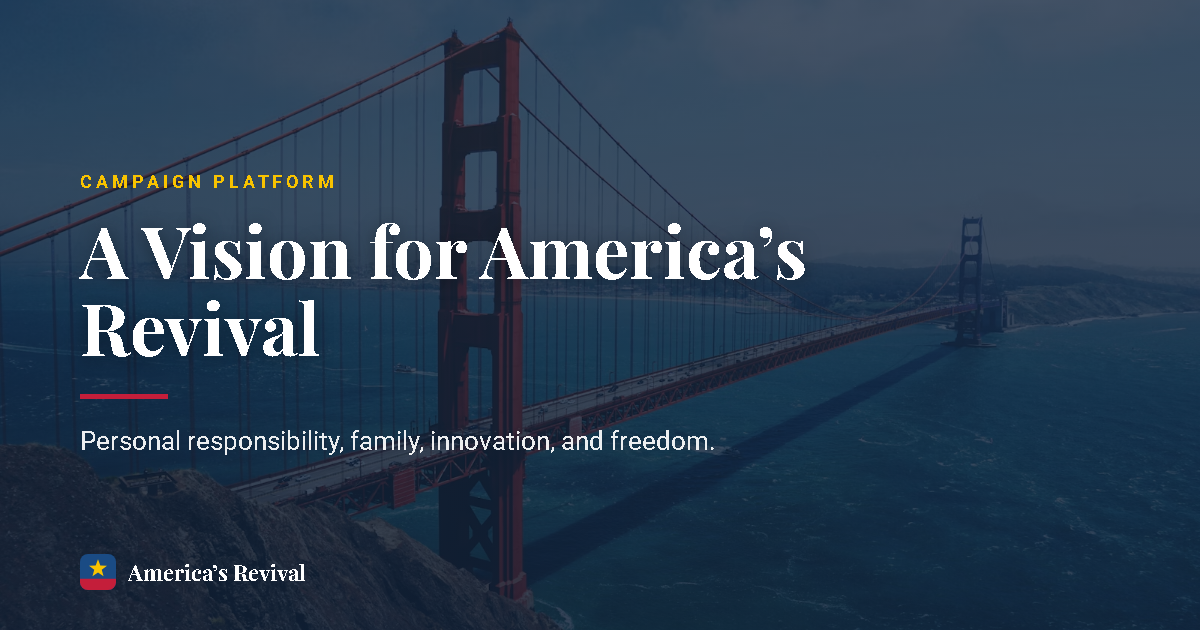
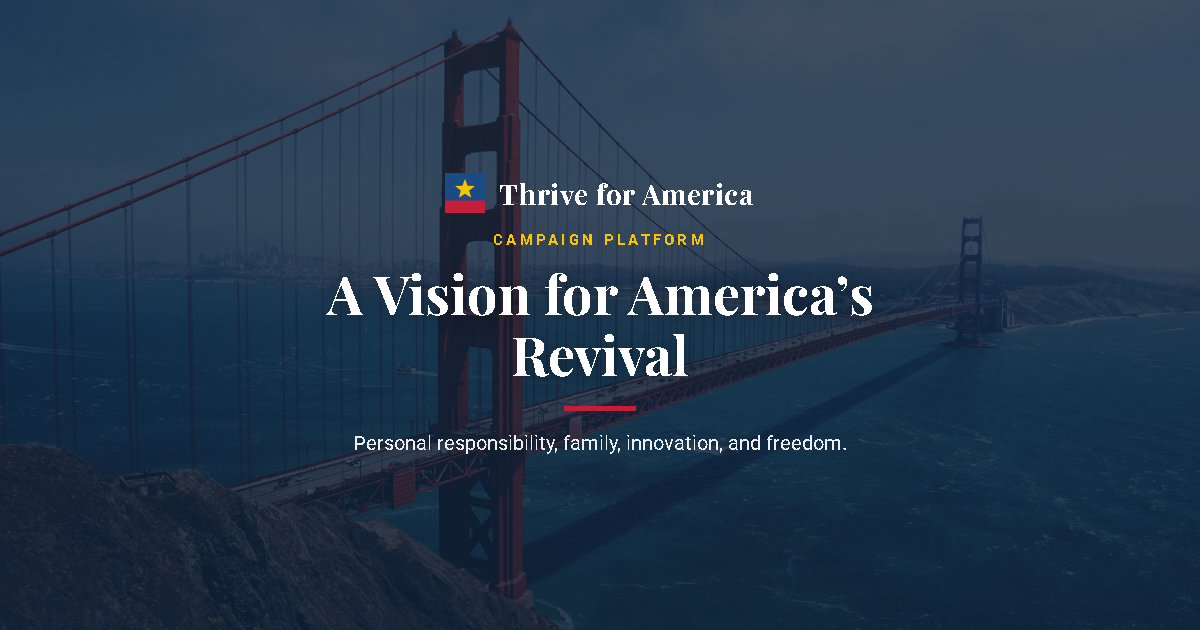
Center the share-preview image so Thrive for America is visible in chat thumbnails.

diff --git a/index.html b/index.html
@@ -18,8 +18,8 @@
     <meta property="og:title" content="A Vision for America's Revival">
     <meta property="og:description" content="A modern manifesto for personal responsibility, family, innovation, and freedom.">
     <meta property="og:url" content="https://thriveforamerica.com/">
-    <meta property="og:image" content="https://thriveforamerica.com/og-image.png">
-    <meta property="og:image:secure_url" content="https://thriveforamerica.com/og-image.png">
+    <meta property="og:image" content="https://thriveforamerica.com/og-image.png?v=2">
+    <meta property="og:image:secure_url" content="https://thriveforamerica.com/og-image.png?v=2">
     <meta property="og:image:type" content="image/png">
     <meta property="og:image:width" content="1200">
     <meta property="og:image:height" content="630">
@@ -29,7 +29,7 @@
     <meta name="twitter:card" content="summary_large_image">
     <meta name="twitter:title" content="A Vision for America's Revival">
     <meta name="twitter:description" content="A modern manifesto for personal responsibility, family, innovation, and freedom.">
-    <meta name="twitter:image" content="https://thriveforamerica.com/og-image.png">
+    <meta name="twitter:image" content="https://thriveforamerica.com/og-image.png?v=2">
     <meta name="twitter:image:alt" content="A Vision for America's Revival — campaign platform">
 
     <link rel="preconnect" href="https://fonts.googleapis.com">
